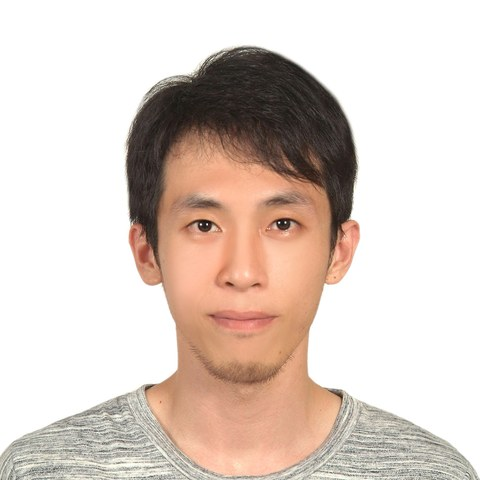
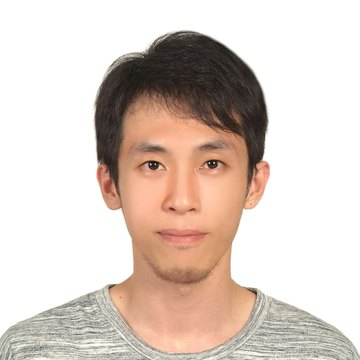
Add files via upload

diff --git a/committees.html b/committees.html
@@ -1,1 +1,1 @@
-<!doctype html><html lang="en"><head><meta charset="utf-8"><meta name="viewport" content="width=device-width, initial-scale=1"><meta name="description" content="MING 2027 — International Conference on Machine Intelligence and Next-Generation Computing"><link rel="stylesheet" href="style.css?v=9"><title>Committees | MING 2027</title></head><body><header class="nav"><a class="brand" href="index.html#home"><span class="brandmark">M<span>✦</span></span> MING <small>2027</small></a><button class="menu" aria-label="Toggle menu" aria-expanded="false">☰</button><nav id="navigation"><a href="index.html#about">About</a><a href="cfp.html">Topics</a><a href="index.html#dates">Dates</a><a href="committees.html">Committees</a><a href="index.html#submission">Submission</a><a href="index.html#publication">Publication</a><a href="index.html#registration">Registration</a><a href="index.html#venue">Venue</a><a href="index.html#contact">Contact</a></nav></header><main><section class="section" style="padding-top:145px;min-height:75vh"><div class="section-tag">MING 2027</div><h1 style="font-size:clamp(2.2rem,5vw,4rem);margin-bottom:18px">Conference <span style="color:#49d9c4">Committees.</span></h1><p class="intro">Meet the confirmed conference leadership. Additional committee appointments will be announced as they are confirmed.</p><section class="chair-group"><h2>Conference Chair</h2><div class="chair-cards"><article class="chair-card"><div class="chair-avatar" aria-hidden="true">CC</div><div class="chair-detail"><h3>Chien-Ming Chen</h3><p>Nanjing University of Information Science and Technology</p><span>China</span></div></article></div></section><section class="chair-group"><h2>Conference Co-Chairs</h2><div class="chair-cards"><article class="chair-card"><img class="chair-avatar chair-photo" src="assets/chairs/hsin-hung-cho.jpg" alt="Portrait of Hsin-Hung Cho" loading="lazy"><div class="chair-detail"><h3>Hsin-Hung Cho</h3><p>National Ilan University</p><span>Taiwan</span></div></article><article class="chair-card"><div class="chair-avatar" aria-hidden="true">SK</div><div class="chair-detail"><h3>Saru Kumari</h3><p>Chaudhary Charan Singh University</p><span>India</span></div></article></div></section><section class="chair-group"><h2>Program Chairs</h2><div class="chair-cards"><article class="chair-card"><div class="chair-avatar" aria-hidden="true">LY</div><div class="chair-detail"><h3>Lip Yee Por</h3><p>Universiti Malaya</p><span>Malaysia</span></div></article><article class="chair-card"><img class="chair-avatar chair-photo" src="assets/chairs/sunil-prajapat.jpg" alt="Portrait of Sunil Prajapat" loading="lazy"><div class="chair-detail"><h3>Sunil Prajapat</h3><p>Marwadi University</p><span>India</span></div></article></div></section><section class="chair-group"><h2>Publication Chair</h2><div class="chair-cards"><article class="chair-card"><div class="chair-avatar" aria-hidden="true">TW</div><div class="chair-detail"><h3>Tsu-Yang Wu</h3><p>Nanjing University of Information Science and Technology</p><span>China</span></div></article></div></section><h2 style="margin-top:65px">Technical Program <span>Committee.</span></h2><p class="intro">Member names, affiliations, and countries will be added once confirmed.</p><div class="placeholder"><span>TPC MEMBERS</span><strong>To be announced</strong></div></section></main><footer><a class="brand" href="index.html#home">MING <small>2027</small></a><span>© 2027 MING Conference. All rights reserved.</span><a href="index.html#home">Back to top ↑</a><small class="photo-credit">Xuanwu Lake panorama: <a href="https://commons.wikimedia.org/wiki/File:Nanjing_-_Skyline_from_Xuanwu_Lake.jpg" target="_blank" rel="noopener">Ecelan / Wikimedia Commons (CC BY-SA 4.0)</a></small></footer><script src="script.js"></script></body></html>
+<!doctype html><html lang="en"><head><meta charset="utf-8"><meta name="viewport" content="width=device-width, initial-scale=1"><meta name="description" content="MING 2027 — International Conference on Machine Intelligence and Next-Generation Computing"><link rel="stylesheet" href="style.css?v=11"><title>Committees | MING 2027</title></head><body><header class="nav"><a class="brand" href="index.html#home"><span class="brandmark">M<span>✦</span></span> MING <small>2027</small></a><button class="menu" aria-label="Toggle menu" aria-expanded="false">☰</button><nav id="navigation"><a href="index.html#about">About</a><a href="cfp.html">Topics</a><a href="index.html#dates">Dates</a><a href="committees.html">Committees</a><a href="index.html#submission">Submission</a><a href="index.html#publication">Publication</a><a href="index.html#registration">Registration</a><a href="index.html#venue">Venue</a><a href="index.html#contact">Contact</a></nav></header><main><section class="section" style="padding-top:145px;min-height:75vh"><div class="section-tag">MING 2027</div><h1 style="font-size:clamp(2.2rem,5vw,4rem);margin-bottom:18px">Conference <span style="color:#49d9c4">Committees.</span></h1><p class="intro">Meet the confirmed conference leadership. Additional committee appointments will be announced as they are confirmed.</p><section class="chair-group"><h2>Conference Chair</h2><div class="chair-cards"><article class="chair-card"><img class="chair-avatar chair-photo" src="assets/chairs/chien-ming-chen.jpg" alt="Portrait of Chien Ming Chen" loading="lazy"><div class="chair-detail"><h3>Chien-Ming Chen</h3><p>Nanjing University of Information Science and Technology</p><span>China</span></div></article></div></section><section class="chair-group"><h2>Conference Co-Chairs</h2><div class="chair-cards"><article class="chair-card"><img class="chair-avatar chair-photo" src="assets/chairs/hsin-hung-cho.jpg" alt="Portrait of Hsin-Hung Cho" loading="lazy"><div class="chair-detail"><h3>Hsin-Hung Cho</h3><p>National Ilan University</p><span>Taiwan</span></div></article><article class="chair-card"><img class="chair-avatar chair-photo" src="assets/chairs/saru-kumari.jpg" alt="Portrait of Saru Kumari" loading="lazy"><div class="chair-detail"><h3>Saru Kumari</h3><p>Chaudhary Charan Singh University</p><span>India</span></div></article></div></section><section class="chair-group"><h2>Program Chairs</h2><div class="chair-cards"><article class="chair-card"><img class="chair-avatar chair-photo" src="https://csnet.um.edu.my/images/member/porlip.jpg" alt="Portrait of Lip Yee Por" loading="lazy" onerror="this.outerHTML='<div class=&quot;chair-avatar&quot; aria-hidden=&quot;true&quot;>LY</div>'"><div class="chair-detail"><h3>Lip Yee Por</h3><p>Universiti Malaya</p><span>Malaysia</span></div></article><article class="chair-card"><img class="chair-avatar chair-photo" src="assets/chairs/sunil-prajapat.jpg" alt="Portrait of Sunil Prajapat" loading="lazy"><div class="chair-detail"><h3>Sunil Prajapat</h3><p>Marwadi University</p><span>India</span></div></article></div></section><section class="chair-group"><h2>Publication Chair</h2><div class="chair-cards"><article class="chair-card"><img class="chair-avatar chair-photo" src="assets/chairs/tsu-yang-wu.jpg" alt="Portrait of Tsu Yang Wu" loading="lazy"><div class="chair-detail"><h3>Tsu-Yang Wu</h3><p>Nanjing University of Information Science and Technology</p><span>China</span></div></article></div></section><h2 style="margin-top:65px">Technical Program <span>Committee.</span></h2><p class="intro">Member names, affiliations, and countries will be added once confirmed.</p><div class="placeholder"><span>TPC MEMBERS</span><strong>To be announced</strong></div></section></main><footer><a class="brand" href="index.html#home">MING <small>2027</small></a><span>© 2027 MING Conference. All rights reserved.</span><a href="index.html#home">Back to top ↑</a><small class="photo-credit">Xuanwu Lake panorama: <a href="https://commons.wikimedia.org/wiki/File:Nanjing_-_Skyline_from_Xuanwu_Lake.jpg" target="_blank" rel="noopener">Ecelan / Wikimedia Commons (CC BY-SA 4.0)</a></small></footer><script src="script.js"></script></body></html>

diff --git a/README.md b/README.md
@@ -8,3 +8,12 @@ Changes:
 IMPORTANT: The panorama is loaded remotely from Wikimedia Commons (Special:FilePath); it is NOT included in this ZIP. If Commons is blocked, the fallback background color will appear. For guaranteed performance, download an appropriately licensed copy, save to assets/xuanwu-lake.jpg, and update style.css to reference the local file.
 
 Photo credit: Ecelan, Nanjing - Skyline from Xuanwu Lake.jpg, CC BY-SA 4.0, https://commons.wikimedia.org/wiki/File:Nanjing_-_Skyline_from_Xuanwu_Lake.jpg
+
+
+V10 chair photo status:
+- Local portraits: Hsin-Hung Cho, Sunil Prajapat (provided by conference organizer).
+- Verified direct university portrait URL: Lip Yee Por (https://csnet.um.edu.my/images/member/porlip.jpg); externally loaded.
+- Chien-Ming Chen, Saru Kumari, Tsu-Yang Wu: official pages located, but original image URLs/files could not be retrieved in this environment; initials remain rather than risking wrong/broken portraits.
+
+
+V11: Five confirmed chair photos are stored locally in assets/chairs/. Lip Yee Por portrait currently loads from the university-hosted URL; if unavailable, initials appear. No fabricated portraits.
